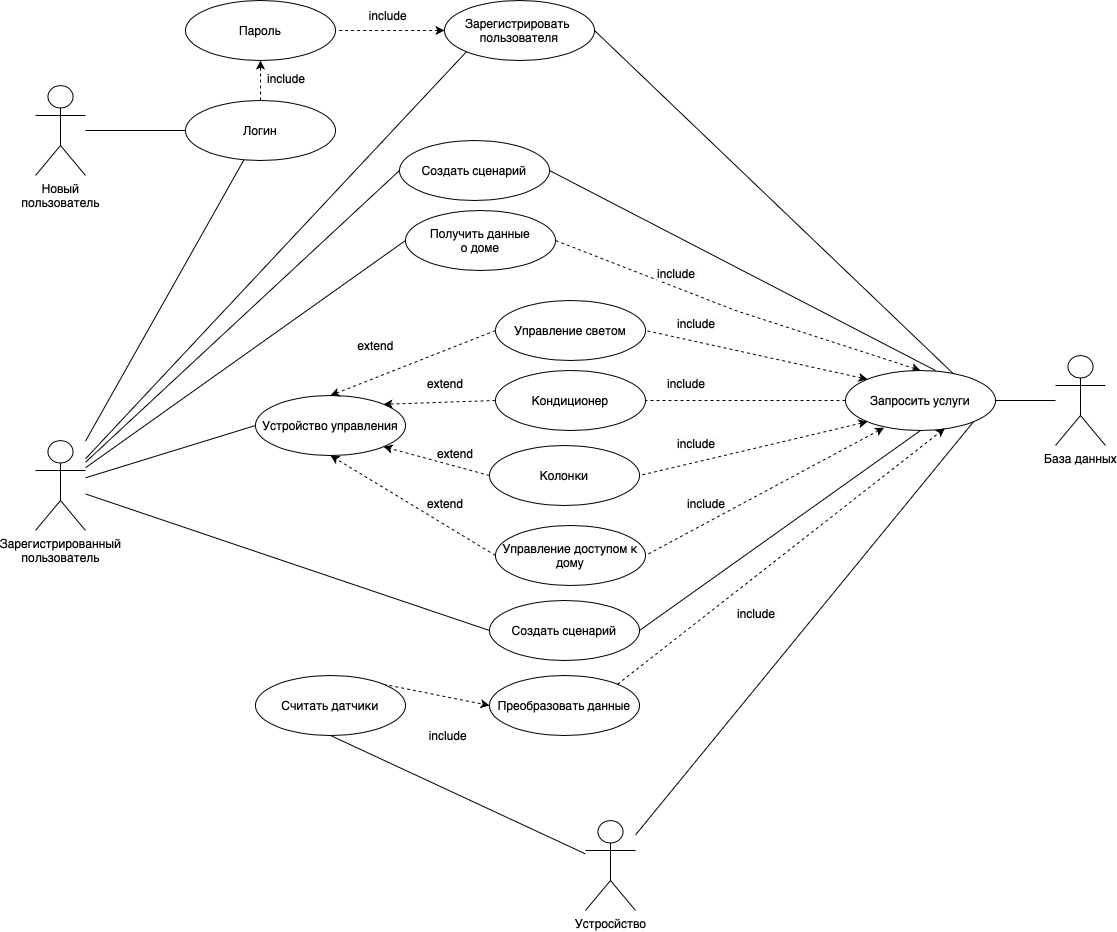
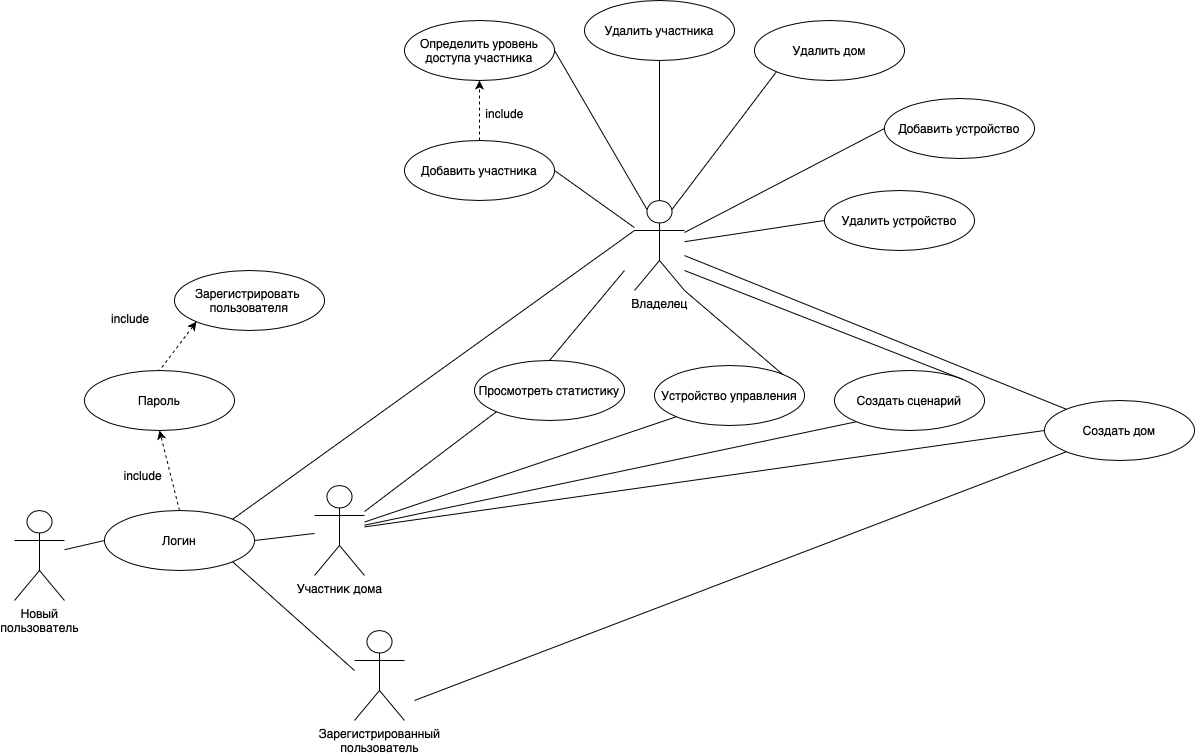
update use-case

diff --git a/README.md b/README.md
@@ -38,15 +38,31 @@
 ![er](/img/er.png)
 
 ### Пользовательские сценарии
-Новым пользователь:
+Новый пользователь:
 * зарегистрироваться: ввести логин и пароль
 
 Зарегистрированный пользователь:
-* добавление / удаление устройств
+* создать дом
+
+Владелец дома:
+* добавить устройство
+* удалить устройство
+* добавить другого пользваотеля в дом
+* определить уровень доступа другого пользваотеля к дому
+* просмотреть статстику
 * управление устройствами
-* создание сценариев
-* добавление других пользователей в дом для совметсного доступа
-* просмотр статистика, анализа
+* создать сценарий
+* создать дом
+* удалить дом
+* создать сценарий
+* удалить сценарий
+
+Участник дома:
+* Просмотреть статистику
+* создать сценарий
+* удалить сценарий
+* управление устройствами
+* создать дом
 
 ### Формализация ключевых бизнес-процессов
 
